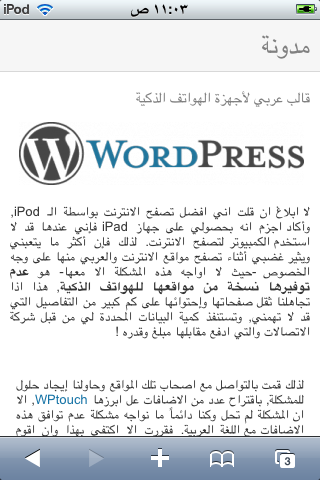
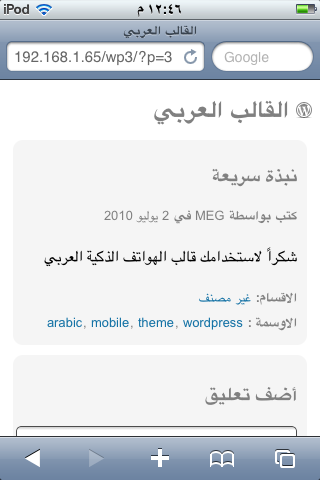
new design

diff --git a/style.css b/style.css
@@ -2,33 +2,55 @@
 Theme Name: Open Arabic Mobile Theme
 Theme URI: http://github.com/meg87/Open-Arabic-Mobile-Theme
 Description: Free and simple Arabic mobile theme for WordPress blogs.
-Version: 0.9.1
+Version: 1.0
 Author: MEG
 Author URI: http://meg87.com
-Tags: flexible-width, one-column, silver, white
+Tags: flexible-width, one-column, white, silver
 */
 
-*{direction:rtl; line-height:25px;}
-html, body { font-size: small; }
-body div#header { height:auto; }
-a { text-decoration: none; }
-/*h1 a:link, h1 a:link, h1 a:visited, h1 a:hover, h1 a:active { color:#808080; }*/
-h1 a:link, h2 a:link, h3 a:link, h4 a:link { color:#808080; }
-h1 a:visited, h2 a:visited, h3 a:visited, h4 a:visited { color:#808080; }
-h1 a:hover, h2 a:hover, h3 a:hover, h4 a:hover { color:#808080; }
-h1 a:active, h2 a:active, h3 a:active, h4 a:active { color:#808080; }
 
-#respond{background: #f5f5f5; padding: 10px; margin: 10px;}
+/* ALL */
+
+body {
+	color:#808080;
+	font-weight: normal;
+	font-family: arial, tahoma, sans-serif;
+}
+a { text-decoration: none; color:#1573A6;}
+h1 a, h2 a{ color:#808080;}
+h1, h2, h3 {color:#808080; font-family: arial, tahoma, sans-serif;}
 p{text-align: justify}
-input[type=text], textarea{width: 98%}
-img{max-width: 285px; text-align: center;}
-ol.commentlist
-{list-style:none; padding: 0px; margin-left:0;}
-li.comment{margin: 10px;}
-.comment-body{background: #f5f5f5; padding:10px;}
-.comment-meta{display: none;}
-.fn {font-style:normal;}
-.metadata{background: #f9f9f9; padding: 5px; color: #808080;}
-h1, h2, h3, h4, h5, h6 {font-family: arial, tahoma, sans-serif;}
+input, textarea{-webkit-text-size-adjust: 140%; text-size-adjust: 14pt;}
+img{max-width: 320px; max-height: 480; border:0;}
+hr{height: 1px; background-color: #808080; color: #808080; border: 0px none; margin:10px; margin-bottom: 15px;}
 .pagebar p{text-align: center;}
-.entry-title a{font-weight:bold;}
+.metadata{color:#808080; font-size: small;}
+.post, .comment-body, #respond { margin: 10px 5px; -moz-border-radius: 5px; -webkit-border-radius: 10px; border-radius: 10px; background: #f5f5f5; padding: 10px; color: black; }
+
+
+/* HEADER */
+
+#header { height:auto; }
+#header h1{font-size: x-large;}
+
+
+/* POST */
+
+.post-title a{font-weight:bold;}
+.post {line-height:25px; }
+.post img{display: block; margin: auto;}
+.post h2{font-size: large;}
+
+
+/* COMMENTS */
+
+ol.commentlist{list-style:none; padding: 0px; margin-left:0;}
+li.comment{margin: 10px; list-style-type:none; margin:5px 0;}
+.comment-body{line-height:25px;}
+.comment-meta{display: none;}
+#respond input[type=text], #respond textarea{width: 90%;}
+
+
+/* FOOTER */
+
+#footer p {text-align: center; font-size: small;}

diff --git a/header.php b/header.php
@@ -1,15 +1,27 @@
 <!DOCTYPE html PUBLIC "-//WAPFORUM//DTD XHTML Mobile 1.0//EN" "http://www.wapforum.org/DTD/xhtml-mobile10.dtd">
-<html xmlns="http://www.w3.org/1999/xhtml">
+<html xmlns="http://www.w3.org/1999/xhtml" dir="rtl">
 	<head profile="http://gmpg.org/xfn/11">
 		<title><?php bloginfo('name');?></title>
-		<link rel="stylesheet" href="<?php bloginfo('stylesheet_directory'); ?>/low/reset-low.css" type="text/css" />
-		<link rel="stylesheet" href="<?php bloginfo('stylesheet_directory'); ?>/low/baseStyles-low.css" type="text/css" />
+		<!-- <link rel="stylesheet" href="<?php bloginfo('stylesheet_directory'); ?>/low/reset-low.css" type="text/css" />
+		<link rel="stylesheet" href="<?php bloginfo('stylesheet_directory'); ?>/low/baseStyles-low.css" type="text/css" />-->
 		<link rel="stylesheet" href="<?php bloginfo('stylesheet_url'); ?>" type="text/css" />
+		<meta name="viewport" content="width=device-width,user-scalable=no" />
+
+		<script type="text/javascript">
+			function resize(multiplier) 
+			{ 
+				if (document.body.style.fontSize == "") 
+					document.body.style.fontSize = "1.0em"; 
+	
+				document.body.style.fontSize = parseFloat(document.body.style.fontSize) + (multiplier * 0.2) + "em"; 
+			}
+		</script>
+
 		<?php wp_head(); ?>
 	</head>
 	<body>
-	<div id="wrap">
-		<div id="header">
-			<h1><a href="<?php echo get_option('home'); ?>/"><?php bloginfo('name'); ?></a></h1>
-			<!--<h2><?php //bloginfo('description'); ?></h2>-->
-		</div>
+		<div id="wrap">
+			<div id="header">
+				<h1><a href="<?php echo get_option('home'); ?>/"><img src="<?php bloginfo('stylesheet_directory'); ?>/favicon.png" alt=""/> <?php bloginfo('name'); ?></a></h1>
+				<!--<span class="font-resize"><a href="javascript:void(0);" onclick="resize(1)">زيادة حجم الخط</a> | <a href="javascript:void(0);" onclick="resize(-1)">انقاص حجم الخط</a></span>-->
+			</div>

diff --git a/index.php b/index.php
@@ -1,24 +1,29 @@
 <?php get_header(); ?>
 <div id="content">
 	<?php while(have_posts()): the_post() ?>
-		<h3 class="entry-title"><a href="<?php the_permalink(); ?>"><?php the_title(); ?></a></h3>
-		<div class="post_content">
-			<div class="entry">
-				<?php
-				if(is_single())
-					the_content('اقرأ المزيد');
-				else
-					the_excerpt();
-
-				if(is_single())
-				{?>
-					<p class="metadata"><b>كتب بواسطة</b> <?php echo get_the_author(); ?>, <b>بتاريخ</b> <?php echo the_date('j F Y'); ?><br />
-					<b> تحت الاقسام:</b> <?php the_category(', ') ?></p>
-					<?php comments_template();
-				}?>
-			</div>
-		</div>
-	<?php endwhile; ?>		
+		<?php
+			if(is_single())
+			{?>
+				<div class="post">
+					<h2 class="post-title"><a href="<?php the_permalink(); ?>"><?php the_title(); ?></a></h2>
+					<div class="metadata"><b>كتب بواسطة</b> <?php echo get_the_author(); ?> <b>في</b> <?php echo the_date('j F Y'); ?></div>
+					<div class="post-content"><?php the_content('اقرأ المزيد'); ?></div>
+					<div class="metadata">
+						<b> الاقسام:</b> <?php the_category(', ') ?>
+						<br /><?php echo get_the_tag_list('<b>الاوسمة :</b> ', ', ', '') ?>
+					</div>
+				</div>
+				<?php comments_template(); ?>
+				<div class="pagebar"><p><?php previous_post('%', '« الصفحة السابقة', 'no'); ?> . <?php next_post('%', 'الصفحة التالية »', 'no'); ?></p></div>
+			<?php }
+			else
+			{ ?>
+				<div class="post">
+					<h2 class="post-title"><a href="<?php the_permalink(); ?>"><?php the_title(); ?></a></h2>
+					<div class="post-content"><?php the_excerpt();?></div>
+				</div>
+			<?php } ?>
+	<?php endwhile; ?>	
+	<div class="pagebar"><p><?php posts_nav_link(); ?></p></div>	
 </div>
-<div class="pagebar"><p><?php posts_nav_link(); ?></p></div>
 <?php get_footer(); ?>

diff --git a/footer.php b/footer.php
@@ -2,6 +2,6 @@
 				<p>جميع الحقوق محفوظة &copy; <?php bloginfo('name');?> <?php echo date("Y"); ?></p>
 				<?php wp_footer(); ?>
 			</div>
-		</div>			
+		</div>
 	</body>
 </html>
